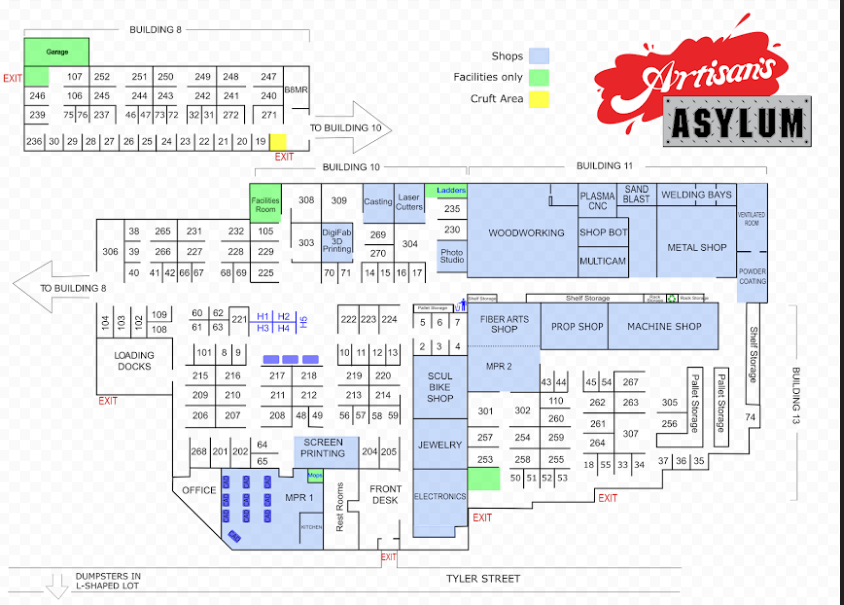
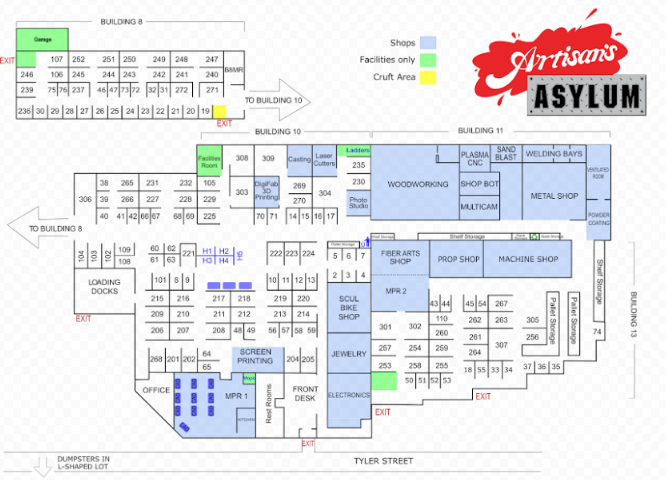
added asylum map

Changed region(s): [[0.0, 0.0, 1.0, 1.0], [0.5405, 0.0625, 0.6607, 0.1875], [0.1502, 0.0312, 0.3604, 0.0625]]

diff --git a/public/js/feedmap.js b/public/js/feedmap.js
@@ -16,7 +16,9 @@ function makeMap(docid,map_url)
       var w = 725,
       h = 481;
       var url = map_url;
-      
+
+      //var url = "/images/a2floor.png";
+
       var southWest = map.unproject([0, h], map.getMaxZoom()-1);
           var northEast = map.unproject([w, 0], map.getMaxZoom()-1);
           var bounds = new L.LatLngBounds(southWest, northEast);
@@ -53,7 +55,7 @@ function makeMap(docid,map_url)
          html: L.Util.template(iconSettings.mapIconUrl, iconSettings), //.replace('#','%23'),
          //html: '<h1>hello</h1>',
          iconAnchor: [12, 32],
-         iconSize: [25, 30],
+         iconSize: [30, 30],
          popupAnchor: [0, -28]
        });
      
@@ -69,7 +71,7 @@ function makeMap(docid,map_url)
        });
      
        var coords = [
-       [-49, 60],[-20, 20]
+       [-43, 48],[-22, 55]
        ];
 
        var markerArray = [];

diff --git a/index.js b/index.js
@@ -49,8 +49,11 @@ app.get("/", function(req, res) {
 
 app.get("/", function(req, res) {
     //var feedkey = String(req.params.feedkey);
-    var map_url = 'https://www.thoughtco.com/thmb/78yp4LX-ib10jQdSRslNYianKu8=/768x0/filters:no_upscale():max_bytes(150000):strip_icc():format(webp)/floorplan-138720186-crop2-58a876a55f9b58a3c99f3d35.jpg';
+    //var map_url = 'https://www.thoughtco.com/thmb/78yp4LX-ib10jQdSRslNYianKu8=/768x0/filters:no_upscale():max_bytes(150000):strip_icc():format(webp)/floorplan-138720186-crop2-58a876a55f9b58a3c99f3d35.jpg';
     //var map_url = 'https://drive.google.com/uc?id=1i8fIEXVZiW_Hdgt0qFnmY_KZPvT';
+    
+    var map_url = '/images/a2floor.png';
+    
     var allfeeddata = [];
 
     var itemsProcessed = 0;
